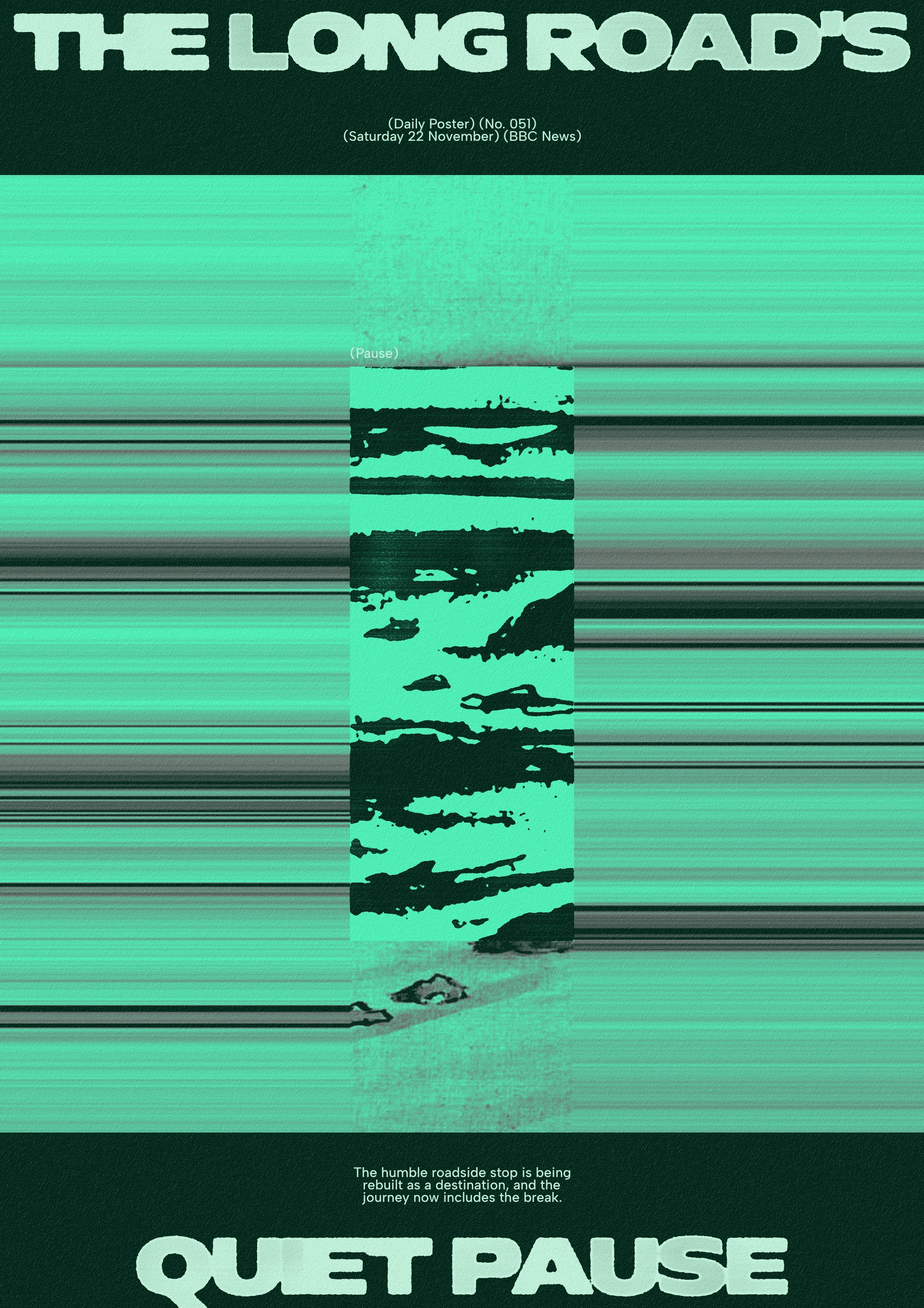
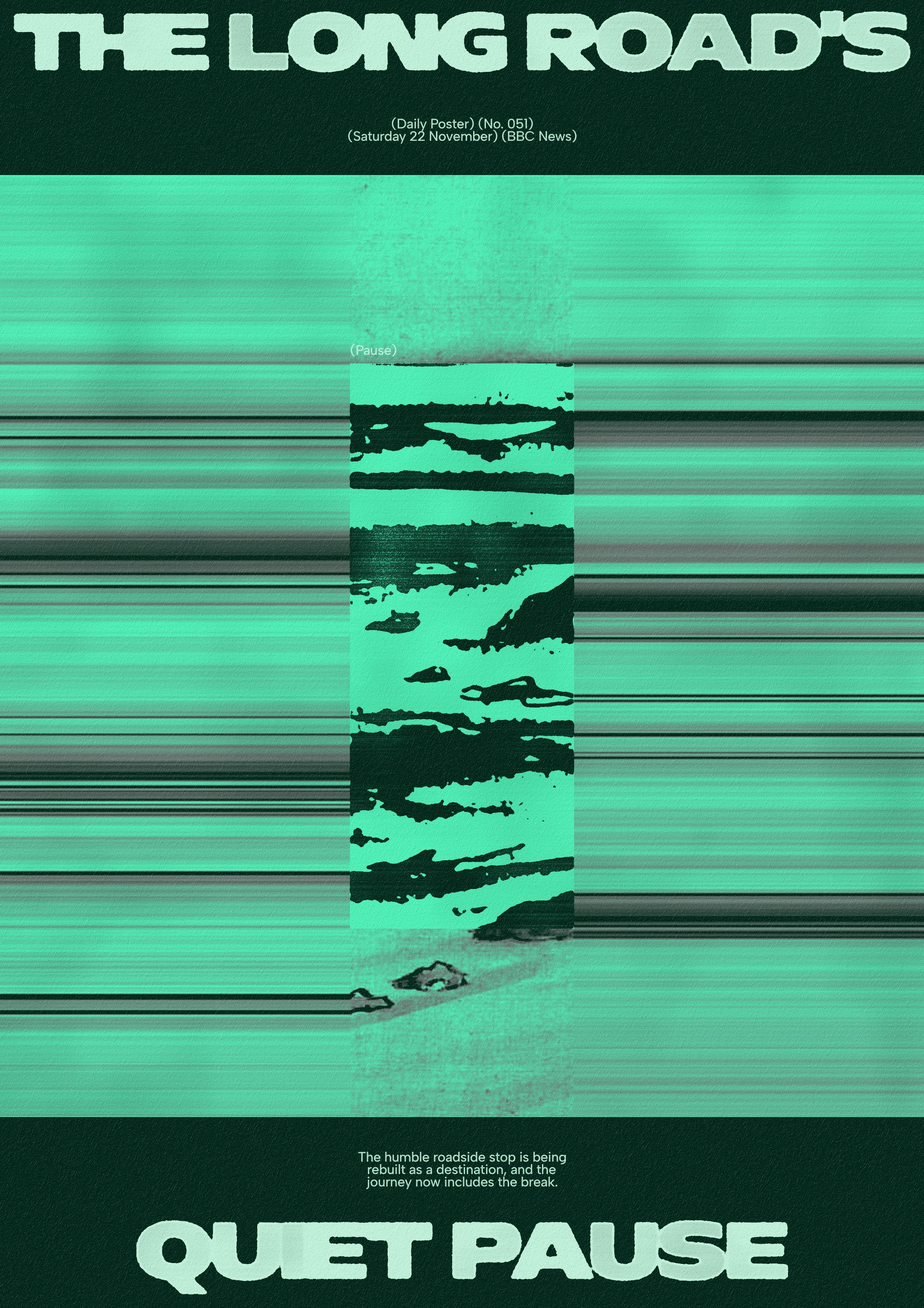
Archive: Nebzokai posters 050–052 re-rendered with the new print rules; centred blocks as an hourglass (053 c3)
Claude-Session: https://claude.ai/code/session_01TfEQpNo4qtALfvjhWWQD7K

Changed region(s): [[0.0, 0.1554, 1.0, 1.0], [0.3722, 0.0933, 0.6204, 0.1243], [0.8065, 0.1243, 0.8375, 0.1554]]

diff --git a/experiments/claude-posters/lab/concepts/050-c1.tpl.js b/experiments/claude-posters/lab/concepts/050-c1.tpl.js
@@ -12,7 +12,7 @@ window.POSTER = async () => {
   g.fillStyle = C.bg; g.fillRect(0, 0, W, H);
 
   const { lines } = sameOptical8(['FIRST TASTE', 'OF A', 'HOT YEAR'], { font: F, weight: 900, size: 200, gap: 22, minGap: 10, word: 0.24 }, W - 2 * M);
-  const head = canvas(); const R = pinBlocks(head, lines, ['L', 'R', 'L'], 1, 0.06);
+  const head = canvas(); const R = pinBlocks(head, spreadWords(lines, W - 2 * M), ['L', 'R', 'L'], 1, 0.06);
   const y0 = R[0].y + R[0].h + 24, y1 = R[1].y - 24;
 
   // the corkscrew, zoomed to the gears, filling the middle band edge to edge
@@ -25,7 +25,6 @@ window.POSTER = async () => {
   draw(g, press(lite, C.mid, 'riso', { wear: 0.4, spread: 0.5, seed: 2 }));
   draw(g, press(hi, C.light, 'riso', { wear: 0.4, spread: 0.5, seed: 3 }));
 
-  draw(g, press(head, C.type, 'letterpress', { wear: 0.35, spread: 0.25, seed: 50 }));
 
   // subline + furniture: one style, under the top block, flush to the margins, cap height on the row line below
   const t = { font: F, size: 16, weight: 500, lead: 0.9, color: C.type };
@@ -35,6 +34,9 @@ window.POSTER = async () => {
   block(g, sub.lines, M, R[1].y, t);
   block(g, ['(Daily Poster)', '(No. 050)', '(Friday 21 November)', '(The Guardian)'], W - M, R[0].y + R[0].h + 24, { ...t, align: 'right' });
   asterisk(g, M + 12, R[0].y + R[0].h + 36, 12, C.type);
+  // round 14 (re-rendered 24 Nov): the whole sheet printed like the headline, then the headline, then the paper
+  printAll(g, C, { style: 'letterpress' });
+  draw(g, press(head, C.type, 'letterpress', { wear: 0.35, spread: 0.25, seed: 50 }));
   draw(g, IM.paper(0.45, 50), 'source-over', 0.6); grain(g, 0.07, 0.5);
   return out;
 };

diff --git a/experiments/claude-posters/lab/concepts/050-c2.tpl.js b/experiments/claude-posters/lab/concepts/050-c2.tpl.js
@@ -12,7 +12,7 @@ window.POSTER = async () => {
   paper(g, C.paper, { drift: 0.02, fibre: 0.05 });
 
   const { lines } = sameOptical8(['THE SUMMER', 'BOTTLED EARLY'], { font: F, weight: 900, size: 200, gap: 22, minGap: 10, word: 0.24 }, W - 2 * M);
-  const head = canvas(); pinBlocks(head, lines, ['L', 'L'], 2, 0.08);
+  const head = canvas(); pinBlocks(head, spreadWords(lines, W - 2 * M), ['L', 'L'], 2, 0.08);
 
   const A = cell(0, 2, 8, 3);
   let a = boxed(harvest, A, { crop: [0.0, 0.1, 1.0, 0.62], fy: 0.4 });
@@ -34,7 +34,6 @@ window.POSTER = async () => {
   draw(g, tint(cut(fInk, circ), C.ink));
   draw(g, tint(inter(fInk, circ), C.flip));
 
-  draw(g, press(head, C.ink, 'letterpress', { wear: 0.35, spread: 0.25, seed: 50 }));
 
   const t = { font: F, size: 16, weight: 500, lead: 0.9, color: C.ink };
   const sub = balance('A long, hot summer brought the earliest grape harvest at the Three Choirs vineyard in half a century.', { ...t, minW: 180, maxW: 300 });
@@ -44,6 +43,9 @@ window.POSTER = async () => {
   block(g, ['(01)'], A.x + A.w, A.y - 10, { ...t, align: 'right', anchor: 'bottom' });
   asterisk(g, A.x + A.w - 22, A.y + 22, 12, C.flip);
   pixels(g, M, A.y - 34, 8, ['#.#.', '.#.#', '#..#'], C.ink);
+  // round 14 (re-rendered 24 Nov): the whole sheet printed like the headline, then the headline, then the paper
+  printAll(g, C, { style: 'letterpress', boxes: [B] });
+  draw(g, press(head, C.ink, 'letterpress', { wear: 0.35, spread: 0.25, seed: 50 }));
   draw(g, IM.paper(0.5, 50), 'source-over', 0.6); grain(g, 0.06, 0.5);
   return out;
 };

diff --git a/experiments/claude-posters/lab/concepts/053-c3.tpl.js b/experiments/claude-posters/lab/concepts/053-c3.tpl.js
@@ -1,5 +1,5 @@
-// No. 053 · Concept 3 · "CHASING / LIGHT / NEAR THE / SUN" · Work Sans ExtraBold, all caps, centred, one word (or
-// pair) per line, two blocks top and bottom.
+// No. 053 · Concept 3 · "CHASING / LIGHT / NEAR / THE SUN" · Work Sans ExtraBold, all caps, centred, two blocks
+// top and bottom set as an hourglass: the widest lines on the outer edges (CHASING, THE SUN), narrowing to the middle.
 // Story: spotting Mercury means chasing a speck of light that never strays far from the sun: you look for it in
 //   the brief window before the sun comes up and drowns it out.
 // Everyday thing: a telescope, the thing you point at the sky to chase that light.
@@ -20,7 +20,7 @@ window.POSTER = async () => {
   const out = canvas(), g = out.g;
   g.fillStyle = C.bg; g.fillRect(0, 0, W, H);
 
-  const HS = inkSafe(['CHASING', 'LIGHT', 'NEAR THE', 'SUN'], { font: D, weight: 800, size: 200, gap: 18, minGap: 8, word: 0.26 }, W - 2 * M, { preset: 'copy', wear: 0.45, spread: 0.4 });
+  const HS = inkSafe(['CHASING', 'LIGHT', 'NEAR', 'THE SUN'], { font: D, weight: 800, size: 200, gap: 18, minGap: 8, word: 0.26 }, W - 2 * M, { preset: 'copy', wear: 0.45, spread: 0.4 });
   const head = canvas(); const R = pinBlocks(head, HS.lines, ['C', 'C', 'C', 'C'], 2, 0.1);
 
   // the telescope: pixelated hard into the palette, centred, big, running through both blocks

diff --git a/experiments/claude-posters/lab/concepts/052-c2.tpl.js b/experiments/claude-posters/lab/concepts/052-c2.tpl.js
@@ -31,13 +31,15 @@ window.POSTER = async () => {
   const ed = xo.g.getImageData(0, 0, xo.width, xo.height); for (let p = 0; p < ed.data.length; p += 4) if (ed.data[p] === 255 && ed.data[p + 1] === 0 && ed.data[p + 2] === 255) ed.data[p + 3] = 0; xo.g.putImageData(ed, 0, 0);
   draw(g, xo);
 
-  draw(g, press(head, C.type, HS.ink.preset, { ...HS.ink, seed: 52 }));
   const t = { font: T, size: 16, weight: 500, lead: 0.9, color: C.type };
   const sub = balance("Paid to hang William Morris's patterns in grand rooms, a working man made a private palace at home.", { ...t, minW: 200, maxW: COL * 2.4 });
   block(g, sub.lines, M, M + ROW * 6.5, t);
   block(g, ['(Daily Poster)', '(No. 052)', '(Monday 23 November)', '(The Guardian)'], W - M, M + ROW * 1.5, { ...t, align: 'right' });
   block(g, ['(Day)'], day.x - day.r, day.y - day.r - 10, { ...t, anchor: 'bottom' });
   block(g, ['(Night)'], night.x + night.r, night.y + night.r + 24, { ...t, align: 'right' });
+  // round 14 (re-rendered 24 Nov): the whole sheet printed like the headline, then the headline, then the paper
+  printAll(g, C, { style: 'letterpress', keep: [nm] });   // the night circle keeps its toned pixels
+  draw(g, press(head, C.type, HS.ink.preset, { ...HS.ink, seed: 52 }));
   draw(g, IM.paper(0.45, 52), 'source-over', 0.6); grain(g, 0.07, 0.5);
   return out;
 };

diff --git a/experiments/claude-posters/lab/concepts/052-c1.tpl.js b/experiments/claude-posters/lab/concepts/052-c1.tpl.js
@@ -26,13 +26,15 @@ window.POSTER = async () => {
   draw(g, press(vm, C.mid, 'riso', { wear: 0.45, spread: 0.5, seed: 1 }));
   draw(g, press(gm, C.mid2, 'riso', { wear: 0.45, spread: 0.5, seed: 2 }));
   draw(g, tone(levels(boxed(brush, bx, { crop: [0.33, 0.42, 0.22, 0.16] }), 0.02, 0.98), C.tones));
-  draw(g, press(head, C.type, HS.ink.preset, { ...HS.ink, seed: 52 }));
   const t = { font: T, size: 16, weight: 500, lead: 0.9, color: C.type };
   const sub = balance('Victorian decorator David Parr papered mansions by day, then filled his own Cambridge terrace with patterns he designed.', { ...t, minW: 200, maxW: COL * 2.6 });
   block(g, sub.lines, bx.x, bx.y, { ...t, align: 'right' });
   block(g, ['(Daily Poster)', '(No. 052)', '(Monday 23 November)', '(The Guardian)'], bx.x, bx.y + bx.h, { ...t, align: 'right', anchor: 'bottom' });
   block(g, ['(01)'], bx.x + bx.w, bx.y - 10, { ...t, align: 'right', anchor: 'bottom' });
   asterisk(g, tb.x + 14, tb.y + tb.h - 14, 12, C.mid);
+  // round 14 (re-rendered 24 Nov): the whole sheet printed like the headline, then the headline, then the paper
+  printAll(g, C, { style: 'letterpress', boxes: [bx] });
+  draw(g, press(head, C.type, HS.ink.preset, { ...HS.ink, seed: 52 }));
   draw(g, IM.paper(0.45, 52), 'source-over', 0.6); grain(g, 0.07, 0.5);
   return out;
 };

diff --git a/experiments/claude-posters/lab/concepts/051-c1.tpl.js b/experiments/claude-posters/lab/concepts/051-c1.tpl.js
@@ -33,12 +33,14 @@ window.POSTER = async () => {
   for (let p = 0; p < sum.length; p++) if (sum[p] >= 2 && sum[p] % 2 === 0) { id.data[p * 4] = fc[0]; id.data[p * 4 + 1] = fc[1]; id.data[p * 4 + 2] = fc[2]; id.data[p * 4 + 3] = 255; }
   xg.putImageData(id, 0, 0); g.save(); g.imageSmoothingEnabled = false; g.drawImage(xo, 0, 0, W, H); g.restore();
 
-  draw(g, press(head, C.type, 'riso', { wear: 0.25, spread: 0.28, seed: 51 }));
   const t = { font: T, size: 16, weight: 500, lead: 0.9, color: C.type };
   const sub = balance('Motorway service stations, long a quick stop for fuel and a sandwich, are being reimagined as places people choose to visit.', { ...t, minW: 200, maxW: COL * 2.6 });
   block(g, sub.lines, W - M, M + ROW * 6.5, { ...t, align: 'right' });
   block(g, ['(Daily Poster)', '(No. 051)', '(Saturday 22 November)', '(BBC News)'], W - M, R[0].y, { ...t, align: 'right' });
   asterisk(g, M + 14, M + ROW * 6.5 + 14, 12, C.type);
+  // round 14 (re-rendered 24 Nov): the whole sheet printed like the headline, then the headline, then the paper
+  printAll(g, C, { style: 'riso' });
+  draw(g, press(head, C.type, 'riso', { wear: 0.25, spread: 0.28, seed: 51 }));
   draw(g, IM.paper(0.4, 51), 'source-over', 0.5); grain(g, 0.08, 0.5);
   return out;
 };

diff --git a/experiments/claude-posters/lab/concepts/051-c2.tpl.js b/experiments/claude-posters/lab/concepts/051-c2.tpl.js
@@ -31,13 +31,15 @@ window.POSTER = async () => {
   draw(g, tint(cut(cm, union(rectMask(b1), rectMask(b2))), C.circle));
   draw(g, tint(inter(cm, rectMask(b2)), C.circle), 'multiply');
 
-  draw(g, press(head, C.ink, 'letterpress', { wear: 0.35, spread: 0.25, seed: 51 }));
   const t = { font: T, size: 16, weight: 500, lead: 0.9, color: C.ink };
   [b1, b2].forEach((b, i) => block(g, [`(0${i + 1})`], b.x, b.y + b.h + 8, t));
   const sub = balance('Fuel and a sandwich are giving way to better food, design and reasons to linger beside the motorway.', { ...t, minW: 200, maxW: COL * 2.6 });
   block(g, sub.lines, b3.x, b3.y + b3.h, { ...t, align: 'right', anchor: 'bottom' });
   block(g, ['(Daily Poster) (No. 051)', '(Saturday 22 November) (BBC News)'], W - M, b3.y + b3.h + 24, { ...t, align: 'right' });
   pixels(g, M, M + ROW * 3 + 40, 8, ['#.#..#', '.#.##.', '#....#'], C.ink);
+  // round 14 (re-rendered 24 Nov): the whole sheet printed like the headline, then the headline, then the paper
+  printAll(g, C, { style: 'letterpress', boxes: [b2, b3] });
+  draw(g, press(head, C.ink, 'letterpress', { wear: 0.35, spread: 0.25, seed: 51 }));
   draw(g, IM.paper(0.5, 51), 'source-over', 0.6); grain(g, 0.06, 0.5);
   return out;
 };

diff --git a/experiments/claude-posters/lab/concepts/052-c3.tpl.js b/experiments/claude-posters/lab/concepts/052-c3.tpl.js
@@ -35,7 +35,6 @@ window.POSTER = async () => {
   const ours = canvas(), rest = canvas(); let y = M + ROW * 3 + 40;
   lines.forEach((t, i) => { const h = Math.floor(i / 2); place(h === 0 ? ours : rest, t, { left: M + COL * h, top: y }); y += pitch; });
   draw(g, tint(rest, C.ghost));
-  draw(g, press(ours, C.ink, HS.ink.preset, { ...HS.ink, seed: 52 }));
 
   const t = { font: T, size: 16, weight: 500, lead: 0.9, color: C.ink };
   [b1, b2, b3].forEach((b, i) => block(g, [`(0${i + 1})`], b.x + b.w, b.y + b.h + 8, { ...t, align: 'right' }));
@@ -44,6 +43,9 @@ window.POSTER = async () => {
   block(g, ['(Daily Poster)', '(No. 052)', '(Monday 23 November)', '(The Guardian)'], b3.x + b3.w, b3.y + b3.h, { ...t, anchor: 'bottom' });
   asterisk(g, W - M - 14, H - M - 14, 12, C.ink);
   pixels(g, W - M - 48, M + ROW * 5 + 24, 8, ['#.##.#', '.#..#.', '#.##.#'], C.ink);
+  // round 14 (re-rendered 24 Nov): the whole sheet printed like the headline, then the headline, then the paper
+  printAll(g, C, { style: 'letterpress', boxes: [b1] });
+  draw(g, press(ours, C.ink, HS.ink.preset, { ...HS.ink, seed: 52 }));
   draw(g, IM.paper(0.5, 52), 'source-over', 0.6); grain(g, 0.06, 0.5);
   return out;
 };

diff --git a/experiments/claude-posters/lab/concepts/051-c3.tpl.js b/experiments/claude-posters/lab/concepts/051-c3.tpl.js
@@ -31,12 +31,14 @@ window.POSTER = async () => {
   g.fillStyle = C.winBg; g.fillRect(win.x, win.y, win.w, win.h);
   draw(g, press(wm, C.winInk, 'riso', { wear: 0.35, spread: 0.45, seed: 4 }));
 
-  draw(g, press(head, C.type, 'letterpress', { wear: 0.35, spread: 0.25, seed: 51 }));
   const t = { font: T, size: 16, weight: 500, lead: 0.9, color: C.type };
   const sub = balance('The humble roadside stop is being rebuilt as a destination, and the journey now includes the break.', { ...t, minW: 180, maxW: COL * 2 });
   block(g, sub.lines, W / 2, band.y + band.h + 40, { ...t, align: 'center' });
   block(g, ['(Daily Poster) (No. 051)', '(Saturday 22 November) (BBC News)'], W / 2, band.y - 40, { ...t, align: 'center', anchor: 'bottom' });
   block(g, ['(Pause)'], win.x, win.y - 10, { ...t, anchor: 'bottom' });
+  // round 14 (re-rendered 24 Nov): the whole sheet printed like the headline, then the headline, then the paper
+  printAll(g, C, { style: 'letterpress', boxes: [band] });
+  draw(g, press(head, C.type, 'letterpress', { wear: 0.35, spread: 0.25, seed: 51 }));
   draw(g, IM.paper(0.45, 51), 'source-over', 0.6); grain(g, 0.07, 0.5);
   return out;
 };

diff --git a/experiments/claude-posters/log.md b/experiments/claude-posters/log.md
@@ -9,3 +9,5 @@ From 053, note each concept's print style and paper stock too.
 | 051 | Neon in the middle of nowhere: pixel circles, OPEN sign, XOR | Pit stop promoted to destination: grid boxes, pump threshold, cup smooth, pixel pump | The long road's quiet pause: image stretch of Hiroshige, centred window, centred type | 1C, 2A, 3A |
 | 052 | Every wall became a garden: full-bleed threshold wallpaper + smooth paintbrush box | Morris by day himself by night: day/night circles, wallpaper vs pixel ornament, XOR | A workman's house of wonder: grid boxes (plaque smooth, key threshold, ASCII of DAVIDPARR), three headlines small | 1A, 2B, 3A |
 | 053 | Catch Mercury before sunrise: Six Caps caps, top/bottom blocks; dawn bars thickening to a hard horizon, thresholded 1885 star plate, Mercury dot in a labelled grid box; foil-colour on smooth | The smallest planet steps out: Young Serif sentence case, interlocked block; Dürer sky map slit-scan stretched into glare, one smooth clear grid box; inked-deboss on rough | Chasing light near the sun: Work Sans ExtraBold caps centred; brass telescope pixelated through the type, XOR crossings, 88 squares for Mercury's year; copy on photocopy | |
+
+Re-rendered 24 Nov with rounds 13–15 (tracked small text, whole sheet printed like the headline, words in the corners) and replaced in the archive: 050 1B 2B, 051 1C 2A 3A, 052 1A 2B 3A. 049 left as posted on Instagram. 053 concept 3 reset as an hourglass (CHASING / LIGHT / NEAR / THE SUN).

diff --git a/experiments/claude-posters/STYLE.md b/experiments/claude-posters/STYLE.md
@@ -29,6 +29,13 @@ Round 1 (Nos. 049–052, 23 Nov 2026) feedback, turned into rules. These overrid
   from the brief and different layout systems and treatments. Colourways only swap which palette colours play
   background, middle (image marks) and type. Ben picks the one(s) to post the next day.
 
+### Round 15 feedback (24 Nov 2026): centred blocks as an hourglass
+- **Centred headline in a top block and a bottom block: set it as an hourglass.** Break the lines so the widest ones
+  sit on the outer edges (the first line on the top margin, the last on the bottom margin) and they narrow towards
+  the middle, so the bottom block mirrors the top. And no short word stranded on the last line: "CHASING / LIGHT /
+  NEAR / THE SUN", not "CHASING / LIGHT / NEAR THE / SUN". Within reason: the breaks still have to read naturally
+  (Round 9).
+
 ### Round 14 feedback (24 Nov 2026): print the whole sheet, and words in the corners
 - **If the headline is printed, everything is printed, to the same degree.** Shapes, pixel blocks, bars, box edges,
   rules and dots go through the same process as the headline: bleeding ink bleeds everywhere, a crisp print is crisp
